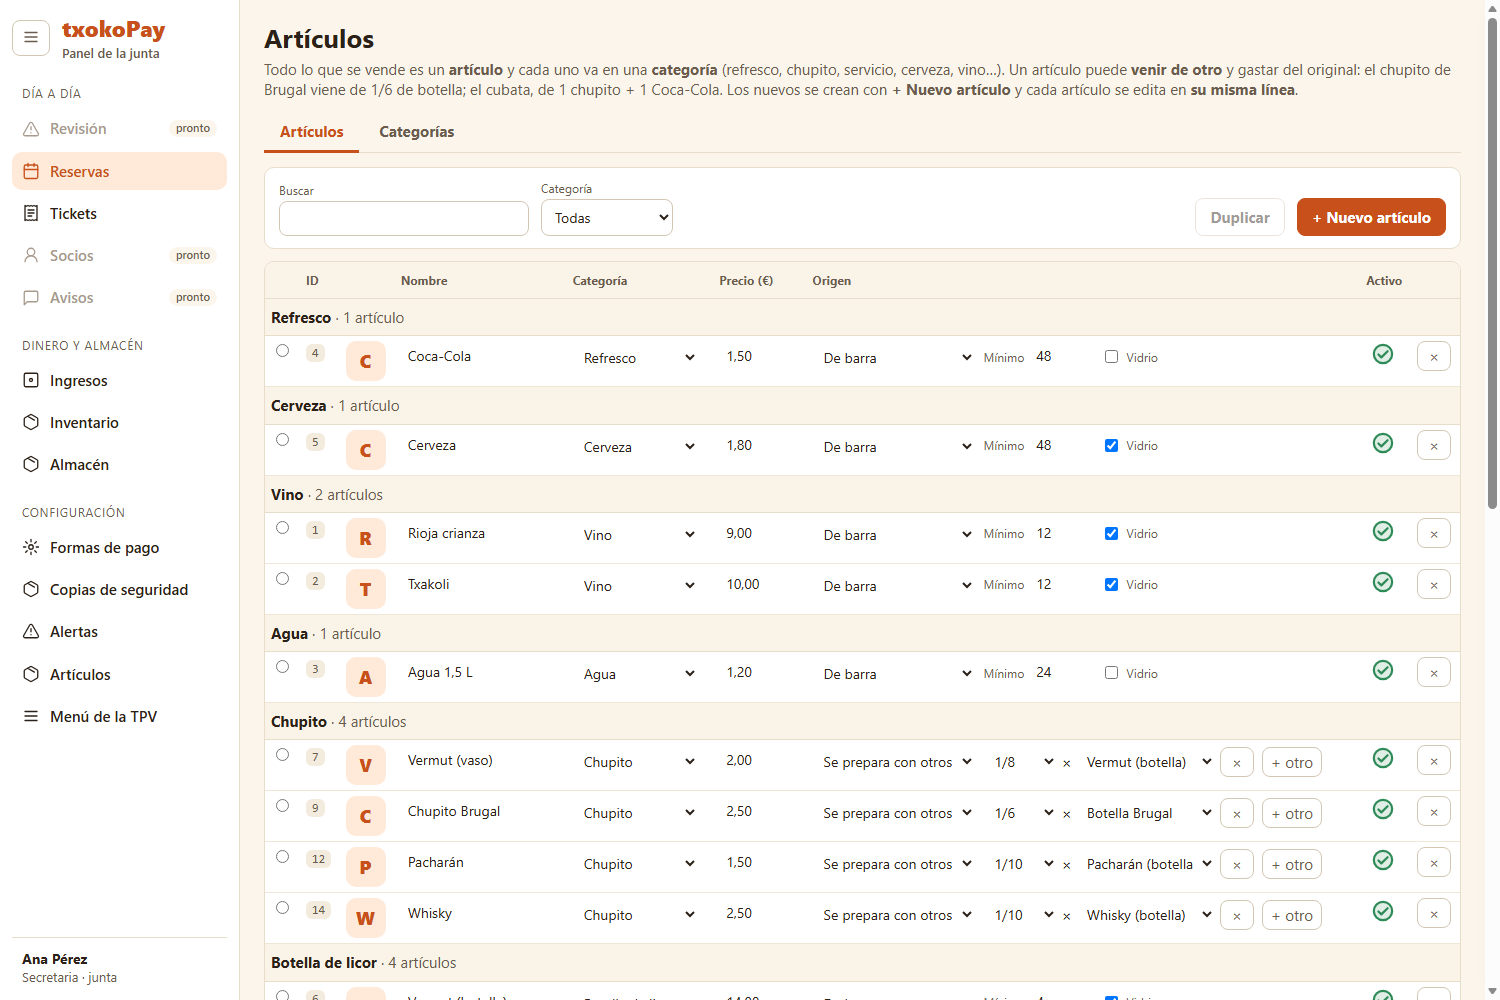
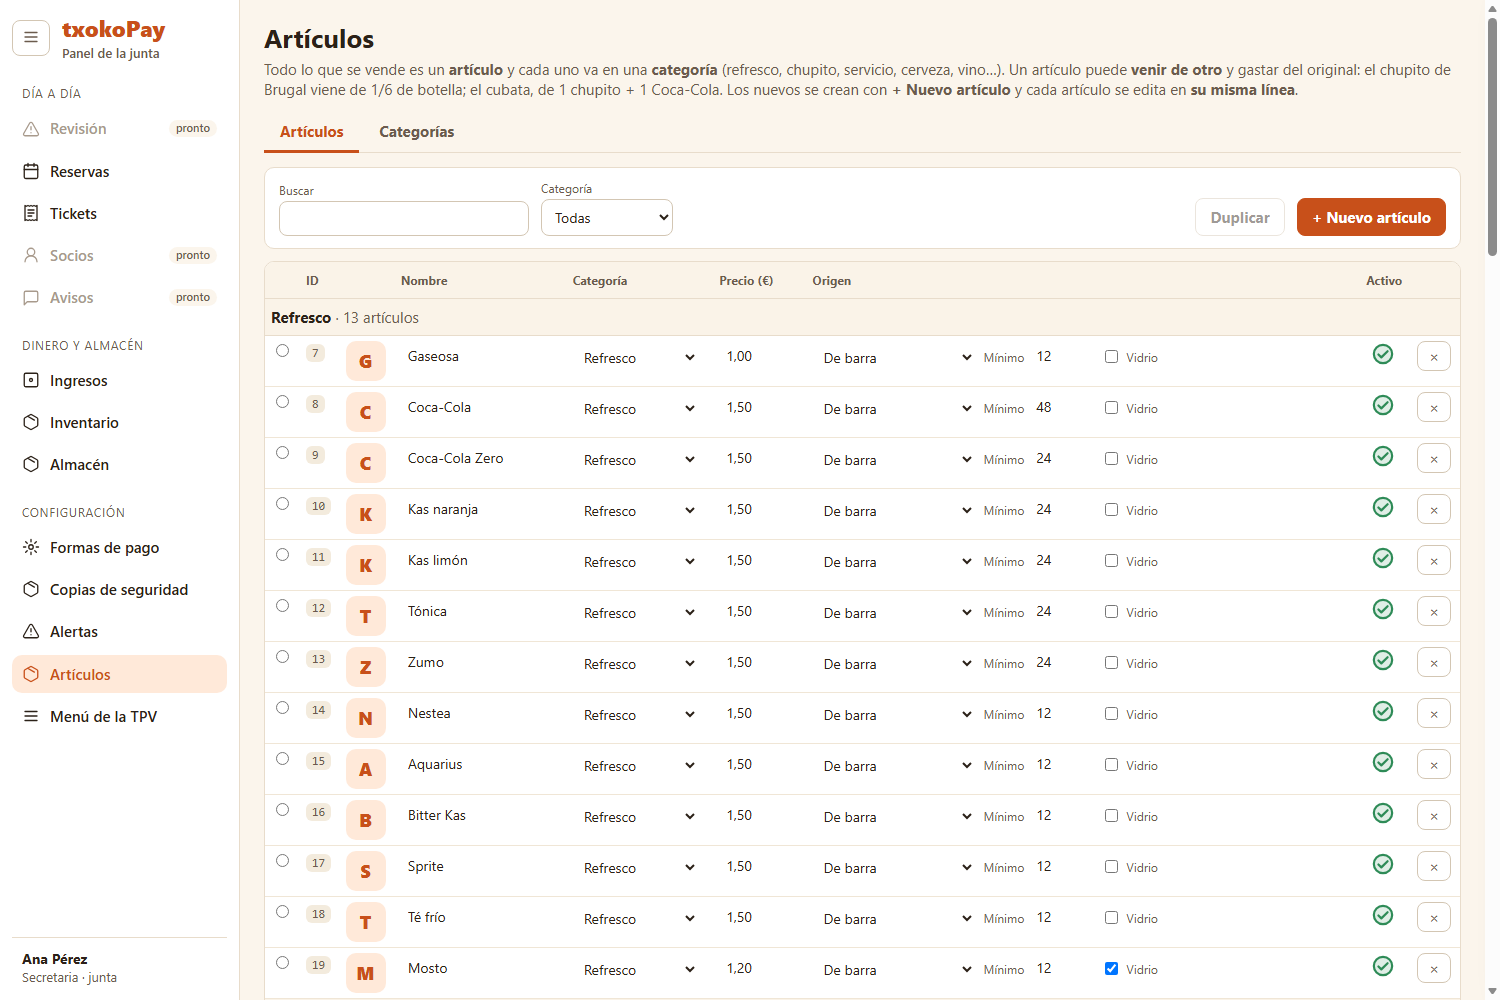
Capturas coherentes entre TPV y panel

diff --git a/README.md b/README.md
@@ -26,7 +26,7 @@ Iremos contando más a medida que avance.
 
 Capturas de los prototipos con los que se está diseñando. Los datos son de ejemplo y todo puede cambiar.
 
-**TPV: el mostrador.** Botones grandes, categorías a la izquierda, el ticket a la derecha y las acciones principales abajo.
+**TPV: el mostrador.** Botones grandes, grupos a la izquierda, el ticket a la derecha y las acciones principales abajo. Los grupos y artículos son los mismos que se montan en el panel.
 
 ![TPV, consumo](capturas/tpv-consumo.png)
 
@@ -34,10 +34,18 @@ Capturas de los prototipos con los que se está diseñando. Los datos son de eje
 
 ![TPV, pago](capturas/tpv-pago.png)
 
+**Panel de la junta: menú de la TPV.** Se arrastran las consumiciones a los grupos y la TPV lo recoge al momento.
+
+![Panel, menú de la TPV](capturas/panel-menu.png)
+
+**Panel de la junta: artículos.** Cada artículo va en una categoría. Se compra («De barra») o se prepara con otros, con la cantidad que gasta de cada uno: un cubata es una parte de botella más un refresco.
+
+![Panel, artículos](capturas/panel-articulos.png)
+
+**Panel de la junta: almacén.** Existencias, alertas de poco género y albaranes de entrada por unidades, con su precio y su IVA.
+
+![Panel, almacén](capturas/panel-almacen.png)
+
 **Panel de la junta: reservas.** Estados de revisión por colores, avisos a los socios y tickets unidos a cada reserva.
 
 ![Panel, reservas](capturas/panel-reservas.png)
-
-**Panel de la junta: artículos.** Un artículo puede salir de otros, con la cantidad que gasta de cada uno.
-
-![Panel, artículos](capturas/panel-articulos.png)
